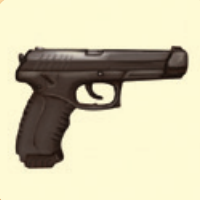
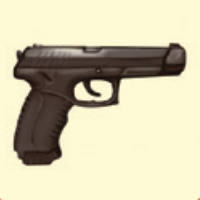
Added HD images

diff --git a/ZitH/Classes/Game1.cs b/ZitH/Classes/Game1.cs
@@ -35,12 +35,6 @@ namespace ZitH
         int b = 0;
         public static bool BorisFlag = false, MaximFlag = false, NadyaFlag = false, NastyaFlag = false, SashaFlag = false;
 
-        //public static string fullscreenon = "img/fullscreenon";
-        //public static string fullscreenoff = "img/fullscreenoff";
-        //public static string fullscreenURL = "img/fullscreenoff";
-
-        public static bool isfullscreen = true;
-
         public static bool isBorisSelected = false;
         public static bool isMaximSelected = false;
         public static bool isNadyaSelected = false;
@@ -66,18 +60,19 @@ namespace ZitH
 
         private SpriteFont font;
 
-        private Texture2D play, settings, exit, /*fullscreen,*/ back, ok, exittomm, exitfromgame, gameStart, NextTurn, Throw, //Buttons
+        private Texture2D play, settings, exit, back, ok, exittomm, exitfromgame, gameStart, NextTurn, Throw, //Buttons
             Number1, Number2, Number3, Number4, //Numbers
             menuBg, gameBg, opaqueBg, //Backgrounds
             Boris, Maxim, Nadya, Nastya, Sasha, //Humans    
             BorisHD, MaximHD, NadyaHD, NastyaHD, SashaHD, //Humans HD
             Boss, Dog, Spider, Zombie, //Enemies
+            BossHD, DogHD, SpiderHD, ZombieHD, //Enemies HD
             Ak47, Axe, Crowbow, Gas, Grenade, HP, Key, Knife, Medkit, Pistol, RPG, Shotgun, Wood, //Items
-            RunSmall, /*Plus,*/ //Items HD
+            RunSmall, AkHD, AxeHD, CrowbowHD, GasHD, GrenadeHD, KeyHD, KnifeHD, MedkitHD, PistolHD, RpgHD, ShotgunHD, WoodHD, //Items HD
             Aim, RunImg, Sabre, Teeth, //Events
             Map, //Map
             BackSide; //Etc
-        //private Vector2 position1, position2, position3, position4, position5;
+
         private Vector2[] HumPos = new Vector2[5];
         private Vector2[] position = new Vector2[55];
         private Vector2[] HMP = new Vector2[5];
@@ -93,7 +88,7 @@ namespace ZitH
         {
             graphics.PreferredBackBufferWidth = 1920;
             graphics.PreferredBackBufferHeight = 1080;
-            graphics.IsFullScreen = isfullscreen;
+            graphics.IsFullScreen = true;
             graphics.ApplyChanges();
             IsMouseVisible = true;       
 
@@ -313,6 +308,11 @@ namespace ZitH
             Spider = Content.Load<Texture2D>("img/Spider");
             Zombie = Content.Load<Texture2D>("img/Zombie");
 
+            BossHD = Content.Load<Texture2D>("img/BossHD");
+            DogHD = Content.Load<Texture2D>("img/DogHD");
+            SpiderHD = Content.Load<Texture2D>("img/SpiderHD");
+            ZombieHD = Content.Load<Texture2D>("img/ZombieHD");
+
             Ak47 = Content.Load<Texture2D>("img/Ak47");
             Axe = Content.Load<Texture2D>("img/Axe");
             Crowbow = Content.Load<Texture2D>("img/Crowbow");
@@ -327,14 +327,24 @@ namespace ZitH
             Shotgun = Content.Load<Texture2D>("img/Shotgun");
             Wood = Content.Load<Texture2D>("img/Wood");
 
-            //fullscreen = Content.Load<Texture2D>(fullscreenURL);
+            AkHD = Content.Load<Texture2D>("img/AkHD");
+            AxeHD = Content.Load<Texture2D>("img/AxeHD");
+            CrowbowHD = Content.Load<Texture2D>("img/CrossbowHD");
+            GasHD = Content.Load<Texture2D>("img/GasHD");
+            GrenadeHD = Content.Load<Texture2D>("img/GrenadeHD");
+            KeyHD = Content.Load<Texture2D>("img/KeyHD");
+            KnifeHD = Content.Load<Texture2D>("img/KnifeHD");
+            MedkitHD= Content.Load<Texture2D>("img/MedkitHD");
+            PistolHD = Content.Load<Texture2D>("img/PistolHD");
+            RpgHD = Content.Load<Texture2D>("img/RpgHD");
+            ShotgunHD = Content.Load<Texture2D>("img/ShotgunHD");
+            WoodHD = Content.Load<Texture2D>("img/WoodHD");
 
             Aim = Content.Load<Texture2D>("img/Aim");
             RunImg = Content.Load<Texture2D>("img/Run");
             Sabre = Content.Load<Texture2D>("img/Sabre");
             Teeth = Content.Load<Texture2D>("img/Teeth");
             RunSmall = Content.Load<Texture2D>("img/RunSmall");
-            //Plus = Content.Load<Texture2D>("img/Plus");
 
             Map = Content.Load<Texture2D>("img/Map");
 
@@ -583,7 +593,7 @@ namespace ZitH
             Keyboardstate = Keyboard.GetState();
         }
 
-        public void CardSpawning() //Spawning 55 cards on the map (not working)
+        public void CardSpawning() //Spawning 55 cards on the map
         {
             if(i <= 54) { 
                 position[i] = new Vector2(1920 / 2 - 795 / 2 + 35 + 51 + 52 * randI, 1080 / 2 - 52 * randA + 264);

diff --git a/ZitH/Classes/UI.cs b/ZitH/Classes/UI.cs
@@ -251,23 +251,8 @@ namespace ZitH
             }
         }
 
-        public void SettingsButtons() //Settings buttons ("fullscreen", back)
+        public void SettingsButtons() //Settings buttons (back)
         {
-            //if (Mouseclick() && RecChecker(graphics.fullscreenRec))
-            //{
-            //    if (Game1.isfullscreen == true)
-            //    {
-            //        Game1.isfullscreen = false;
-            //        Game1.fullscreenURL = Game1.fullscreenon;
-            //    }
-            //
-            //    if (Game1.isfullscreen == false)
-            //    {
-            //        Game1.isfullscreen = true;
-            //        Game1.fullscreenURL = Game1.fullscreenoff;
-            //    }
-            //}
-
             if (Mouseclick() && RecChecker(graphics.backRec))
             {
                 Game1.menuScene = 0;

diff --git a/ZitH/Classes/Graph.cs b/ZitH/Classes/Graph.cs
@@ -12,7 +12,6 @@ namespace ZitH
         public Rectangle playRec;
         public Rectangle settingRec;
         public Rectangle exitRec;
-        //public Rectangle fullscreenRec;
         public Rectangle backRec;
         public Rectangle OkRec;
         public Rectangle EventRec;
@@ -37,8 +36,6 @@ namespace ZitH
             ThrowNumberRec = new Rectangle(1920 / 2 - 50 - 850, 1080 / 2 - 100 + 300, 100, 100);
 
             OkRec = new Rectangle(1920 / 2 - 171 / 2, 1080 / 2 - 50 + 300, 171, 50);
-
-            //fullscreenRec = new Rectangle(1920 / 2 - 201, 1080 / 2 - 200 - 95, 402, 95);
             backRec = new Rectangle(1920 / 2 - 201, 1080 / 2 - 95, 402, 95);
 
             BorisRec = new Rectangle(1920 / 2 + 612 - 102, 1080 / 2 - 204, 204, 204);
